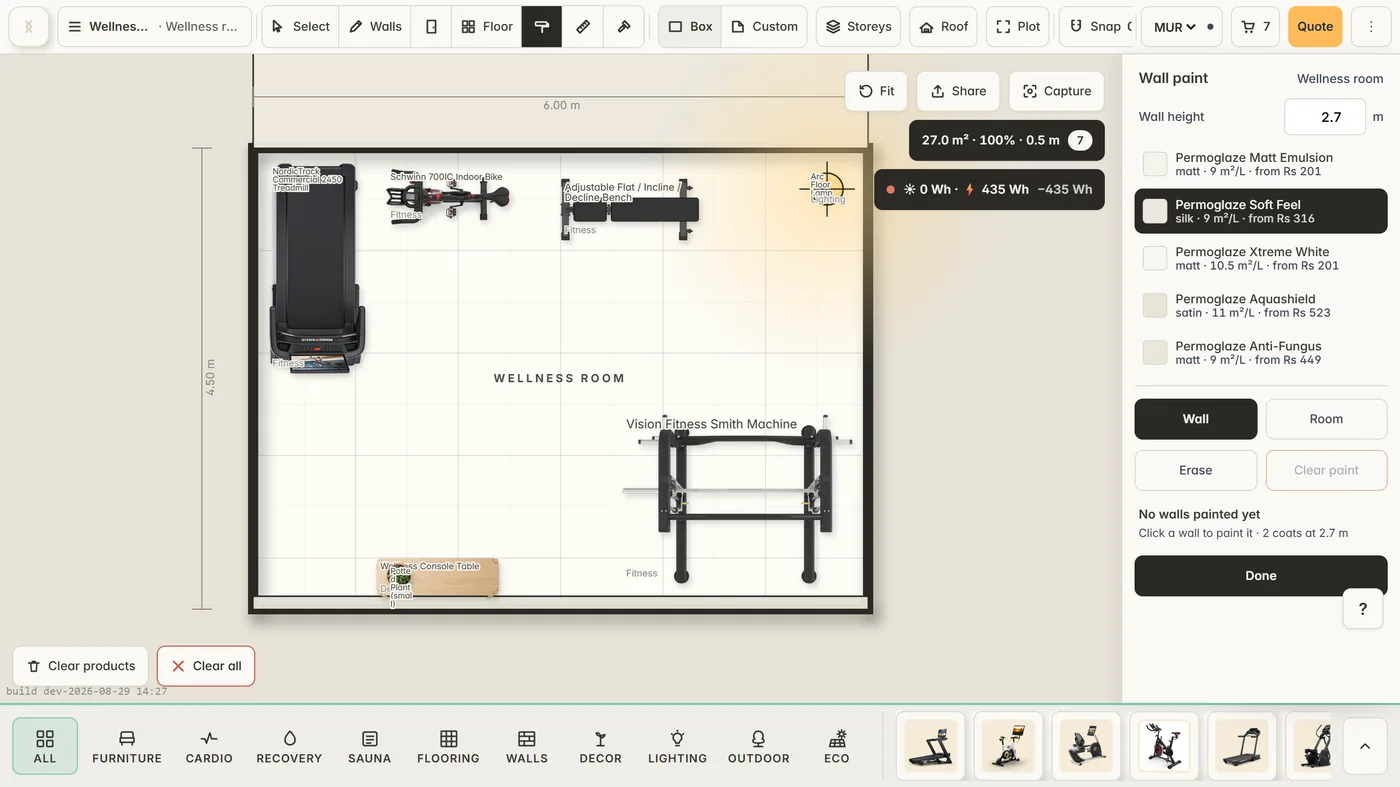
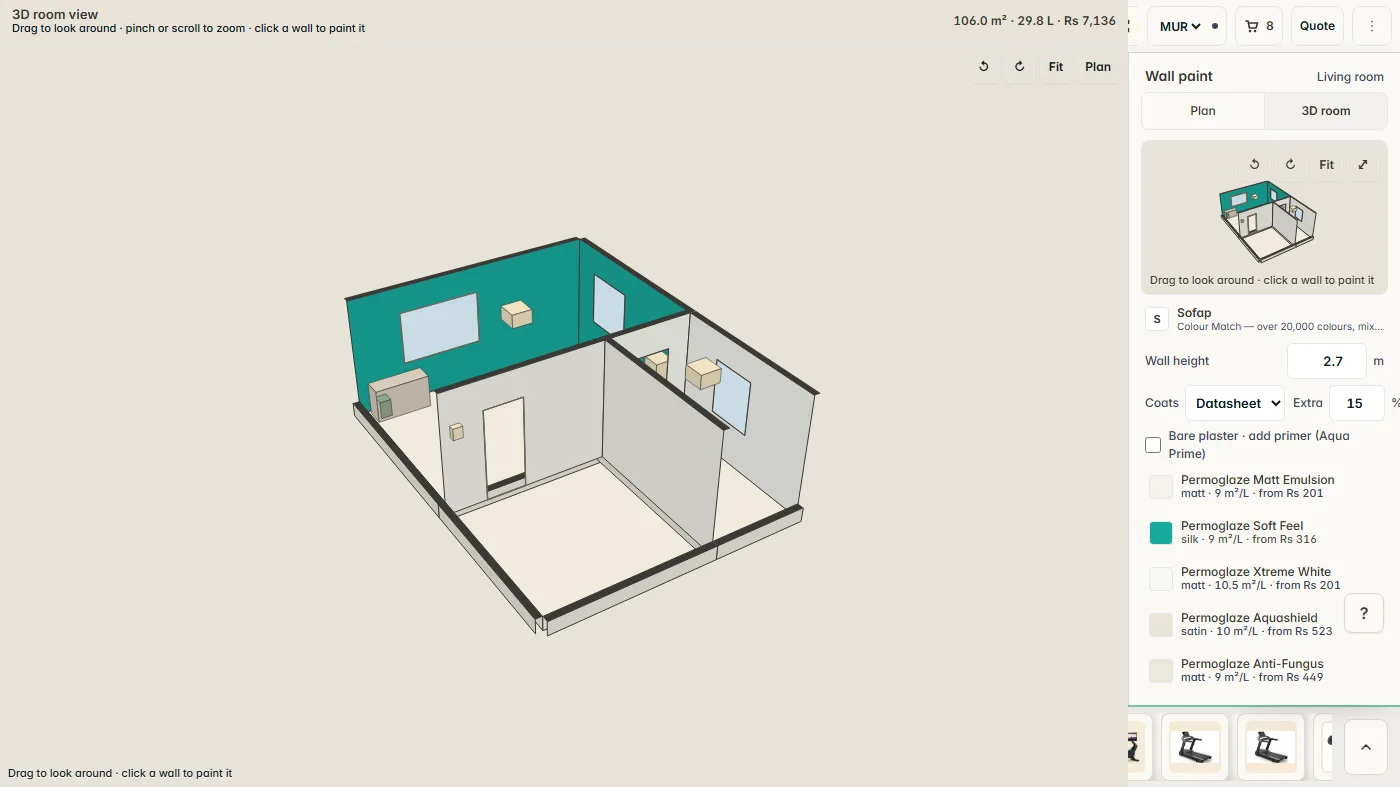
docs(pitch): the paint step shows the 3D room view and Sofap's own colours; widget on three coats + 10 % and the 14 Sep tin prices
Matches the merged wall-paint tool (9ea43e0): Matt Emulsion three coats per Sofap TDS Rev 006, openings under 1 m² not deducted (NRM2), litres rounded once with the touch-up contingency, tins 1 L Rs 201.25 · 5 L Rs 816.50 · 20 L Rs 3,168.25, tie → more litres. New walkthrough frame = the 3D view with a Soft Feel wall.

diff --git a/docs/pitch-page-2026-09-07/site/index.html b/docs/pitch-page-2026-09-07/site/index.html
@@ -261,7 +261,7 @@
       <div class="card reveal">
         <div class="ico"><svg viewBox="0 0 24 24" aria-hidden="true" focusable="false"><path d="M4 20V4h16v16z"/><path d="M4 12h16M12 4v16"/><path d="M8 8h2M14 8h2"/></svg></div>
         <h3>It measures the room</h3>
-        <p>Floor tiles by the exact box count, paint by the whole tin, doors and windows to scale, even a roof and solar panels against the Mauritius sun. A furniture-drag tool this is not.</p>
+        <p>Floor tiles by the exact box count, paint by the whole tin &mdash; picked from the paint company&rsquo;s own colour chart and seen on the walls in 3D &mdash; doors and windows to scale, even a roof and solar panels against the Mauritius sun. A furniture-drag tool this is not.</p>
       </div>
       <div class="card reveal">
         <div class="ico"><svg viewBox="0 0 24 24" aria-hidden="true" focusable="false"><path d="M12 3l9 4.5-9 4.5-9-4.5z"/><path d="M3 12l9 4.5 9-4.5"/><path d="M3 16.5L12 21l9-4.5"/></svg></div>
@@ -284,7 +284,7 @@
       <!-- PAINT -->
       <div class="calc reveal" id="calc-paint">
         <h3>Paint, by the tin</h3>
-        <p class="sub">Permoglaze Matt Emulsion (Sofap) — 9 m² per litre, two coats.</p>
+        <p class="sub">Permoglaze Matt Emulsion (Sofap) — 9 m² per litre, three coats (data sheet), 10 % for touch-ups.</p>
         <div class="row">
           <label>Wall length (m)<input type="number" id="p-len" value="16" min="1" max="200" step="0.1"></label>
           <label>Wall height (m)<input type="number" id="p-h" value="2.7" min="2" max="4" step="0.1"></label>
@@ -297,7 +297,7 @@
           <div class="big" id="p-out">—</div>
           <div class="small" id="p-detail"></div>
         </div>
-        <p class="src">Wall area minus doors (0.84 × 2.04 m) and windows (1.2 × 1.2 m) × 2 coats ÷ 9 m²/L, then the cheapest whole-tin fill from 1 L Rs 201.25 · 5 L Rs 760 · 20 L Rs 2,940.</p>
+        <p class="src">Wall area minus doors (0.84 × 2.04 m) and windows (1.2 × 1.2 m) — openings under 1 m² are not deducted — × 3 coats ÷ 9 m²/L, plus 10 % for touch-ups, then the cheapest whole-tin fill from 1 L Rs 201.25 · 5 L Rs 816.50 · 20 L Rs 3,168.25 (Sofap store, 14 Sep 2026). A tinted tin is priced on its Pastel / Medium / Basic base.</p>
       </div>
 
       <!-- TILES -->
@@ -396,7 +396,7 @@
       <figure><img src="img/wt-1-draw.webp" width="1400" height="787" alt="Drawing the room's walls with the wall pen; the length and angle read out as you draw" loading="lazy"><figcaption><b>1 · Draw the room</b>Walls snap straight; length and angle read out live.</figcaption></figure>
       <figure><img src="img/wt-2-scale.webp" width="1400" height="787" alt="A treadmill selected in the room with its details panel reading footprint 205 by 95 cm and height 165 cm" loading="lazy"><figcaption><b>2 · Drop products to scale</b>205 × 95 cm on the page, 205 × 95 cm on the plan.</figcaption></figure>
       <figure><img src="img/wt-3-tiles.webp" width="1400" height="787" alt="The floor tool laying Gym Interlock tiles across the room with a live count of 37 tiles at Rs 59,200" loading="lazy"><figcaption><b>3 · Tile the floor</b>"37 tiles · Rs 59,200" — cut tiles and offcuts counted.</figcaption></figure>
-      <figure><img src="img/wt-4-paint.webp" width="1400" height="787" alt="The wall-paint tool with the room painted and the litres and tins required listed" loading="lazy"><figcaption><b>4 · Paint the walls</b>Litres from the wall area, then whole tins.</figcaption></figure>
+      <figure><img src="img/wt-4-paint.webp" width="1400" height="787" alt="The 3D room view with the living room walls painted in a Sofap colour, beside the paint panel listing the Permoglaze lines, the colour chart and the litres and tins required" loading="lazy"><figcaption><b>4 · Paint the walls, in 3D</b>Sofap&rsquo;s own colours on the walls; litres from the wall area, then whole tins.</figcaption></figure>
       <figure><img src="img/wt-5-solar.webp" width="1400" height="787" alt="The roof level with four Jinko solar panels and the energy panel reading a surplus of 7.2 kilowatt-hours per day" loading="lazy"><figcaption><b>5 · Add a roof and solar</b>"Surplus +7.2 kWh/day · 4 panels · 1.90 kWp".</figcaption></figure>
     </div>
 
@@ -528,7 +528,7 @@
   const num = (el, fallback) => { const v = parseFloat(el.value); return Number.isFinite(v) && v >= 0 ? v : fallback; };
 
   // ---------- PAINT (wallPaintCalc.ts + wallPaints.ts) ----------
-  const PAINT = { coverage: 9, coats: 2, tins: [{ l: 20, p: 2940 }, { l: 5, p: 760 }, { l: 1, p: 201.25 }] };
+  const PAINT = { coverage: 9, coats: 3, waste: 0.10, tins: [{ l: 20, p: 3168.25 }, { l: 5, p: 816.5 }, { l: 1, p: 201.25 }] };
   const DOOR_W = 0.838, DOOR_H = 2.04, WIN_W = 1.2, WIN_H = 1.2;
   // Cheapest whole-tin fill: exact enumeration over 20/5/1 L counts.
   function tinsFor(litres) {
@@ -538,22 +538,25 @@
       for (let b = 0; b <= Math.ceil(need / 5) + 1; b++) {
         const rem = need - a * 20 - b * 5;
         const c = rem > 0 ? Math.ceil(rem - 1e-9) : 0;
-        const price = a * 2940 + b * 760 + c * 201.25;
+        const price = a * PAINT.tins[0].p + b * PAINT.tins[1].p + c * PAINT.tins[2].p;
         const total = a * 20 + b * 5 + c;
-        if (total + 1e-9 >= need && (!best || price < best.price - 1e-9 || (Math.abs(price - best.price) < 1e-9 && total < best.total))) best = { a, b, c, price, total };
+        if (total + 1e-9 >= need && (!best || price < best.price - 1e-9 || (Math.abs(price - best.price) < 1e-9 && total > best.total))) best = { a, b, c, price, total };
       }
     }
     return best;
   }
   function paint() {
     const len = num($('#p-len'), 0), h = num($('#p-h'), 2.7), doors = num($('#p-doors'), 0), wins = num($('#p-win'), 0);
-    const area = Math.max(0, len * h - doors * DOOR_W * Math.min(DOOR_H, h) - wins * WIN_W * Math.min(WIN_H, h));
-    const litres = Math.ceil((area * PAINT.coats) / PAINT.coverage * 10) / 10;
+    // Openings under 1 m² are not deducted (NRM2 net-measurement rule).
+    const doorA = DOOR_W * Math.min(DOOR_H, h), winA = WIN_W * Math.min(WIN_H, h);
+    const area = Math.max(0, len * h - doors * (doorA >= 1 ? doorA : 0) - wins * (winA >= 1 ? winA : 0));
+    // Rounded once from the exact need + the touch-up contingency.
+    const litres = Math.ceil((area * (1 + PAINT.waste) * PAINT.coats) / PAINT.coverage * 10 - 1e-9) / 10;
     const t = tinsFor(litres);
     const parts = [];
     if (t.a) parts.push(t.a + ' × 20 L'); if (t.b) parts.push(t.b + ' × 5 L'); if (t.c) parts.push(t.c + ' × 1 L');
     $('#p-out').textContent = (parts.join(' + ') || 'no paint needed') + (litres ? ' · ' + rs(t.price) : '');
-    $('#p-detail').textContent = area.toFixed(1) + ' m² of wall × 2 coats = ' + litres.toFixed(1) + ' L';
+    $('#p-detail').textContent = area.toFixed(1) + ' m² of wall × 3 coats + 10 % = ' + litres.toFixed(1) + ' L';
   }
   ['#p-len', '#p-h', '#p-doors', '#p-win'].forEach((s) => $(s).addEventListener('input', paint));
   paint();
